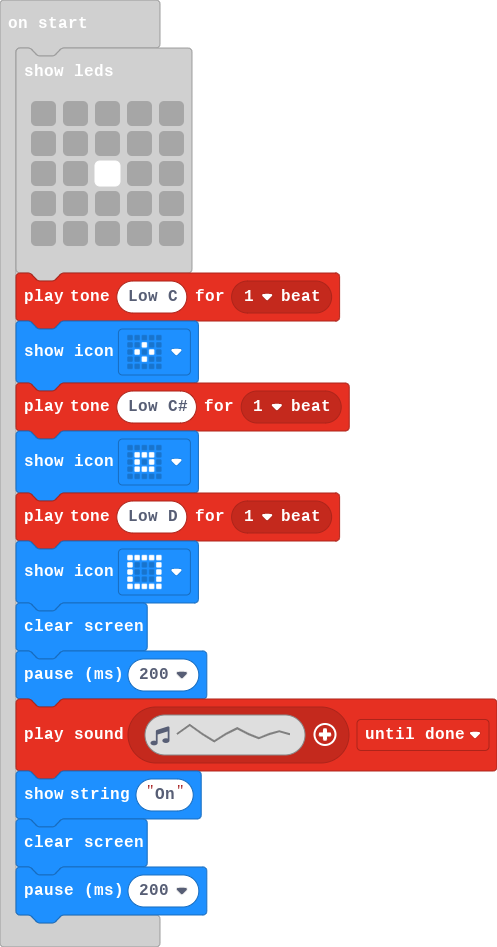
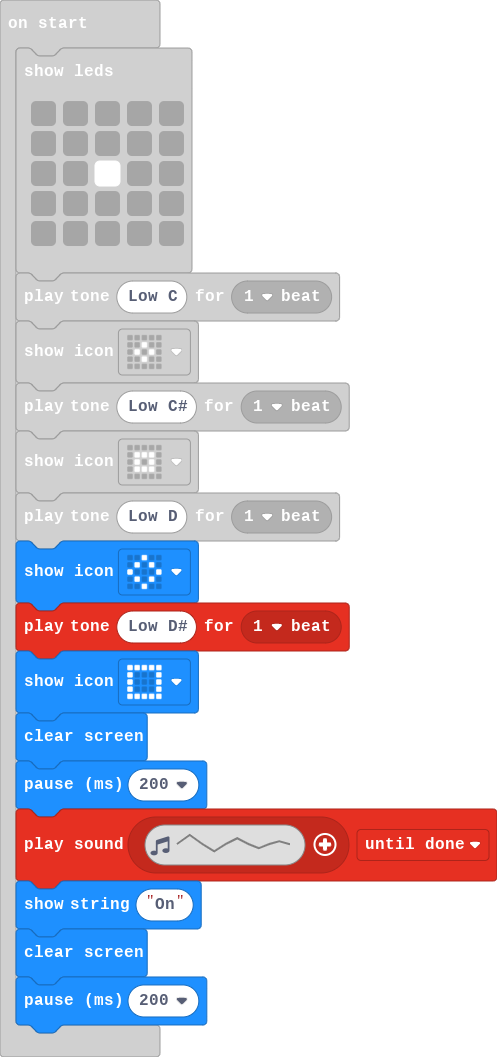
Boot v2.1

diff --git a/main.ts b/main.ts
@@ -10,6 +10,8 @@ basic.showIcon(IconNames.SmallDiamond)
 music.playTone(139, music.beat(BeatFraction.Whole))
 basic.showIcon(IconNames.SmallSquare)
 music.playTone(147, music.beat(BeatFraction.Whole))
+basic.showIcon(IconNames.Diamond)
+music.playTone(156, music.beat(BeatFraction.Whole))
 basic.showIcon(IconNames.Square)
 basic.clearScreen()
 basic.pause(200)
